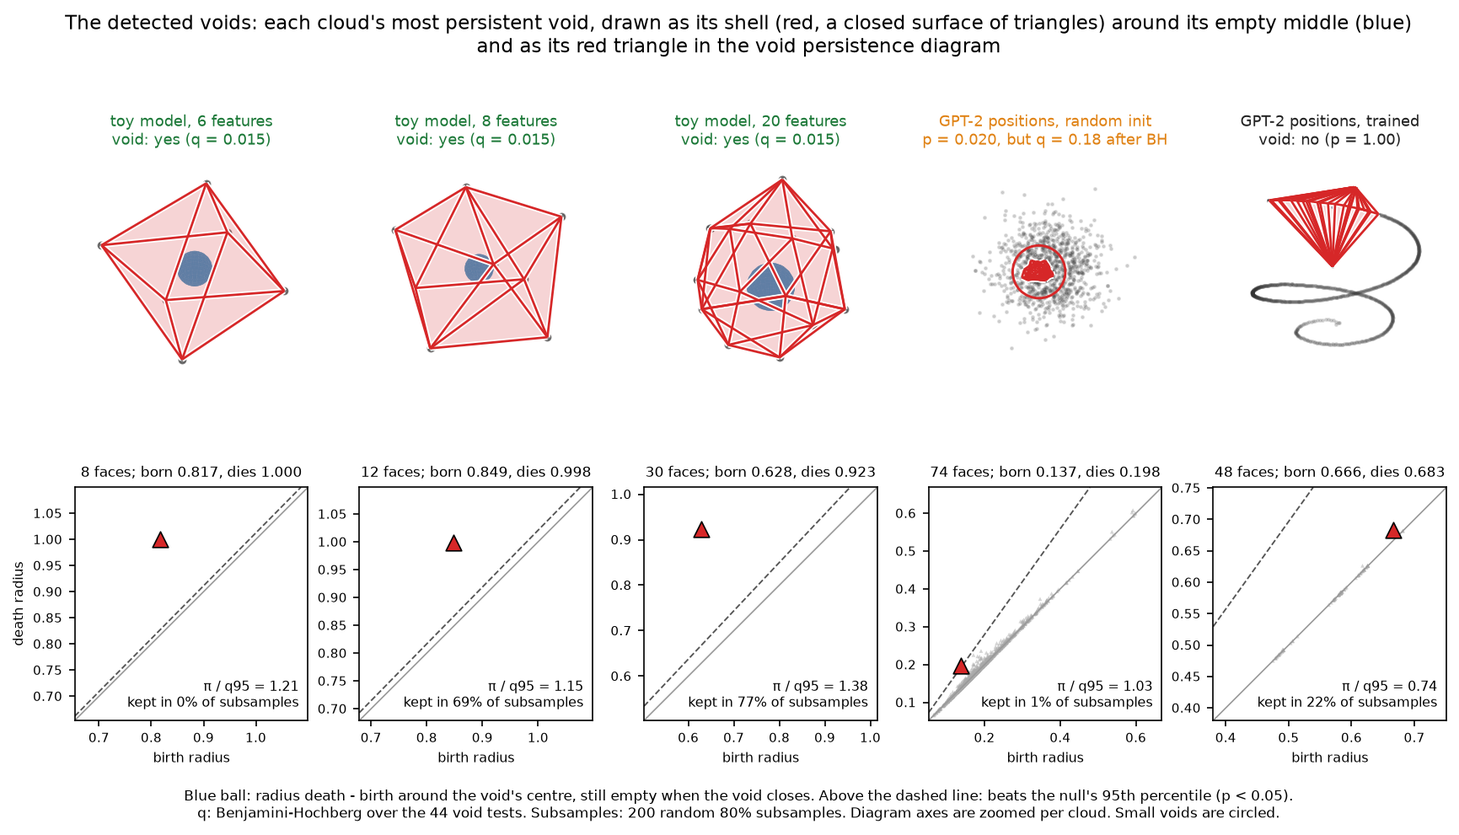
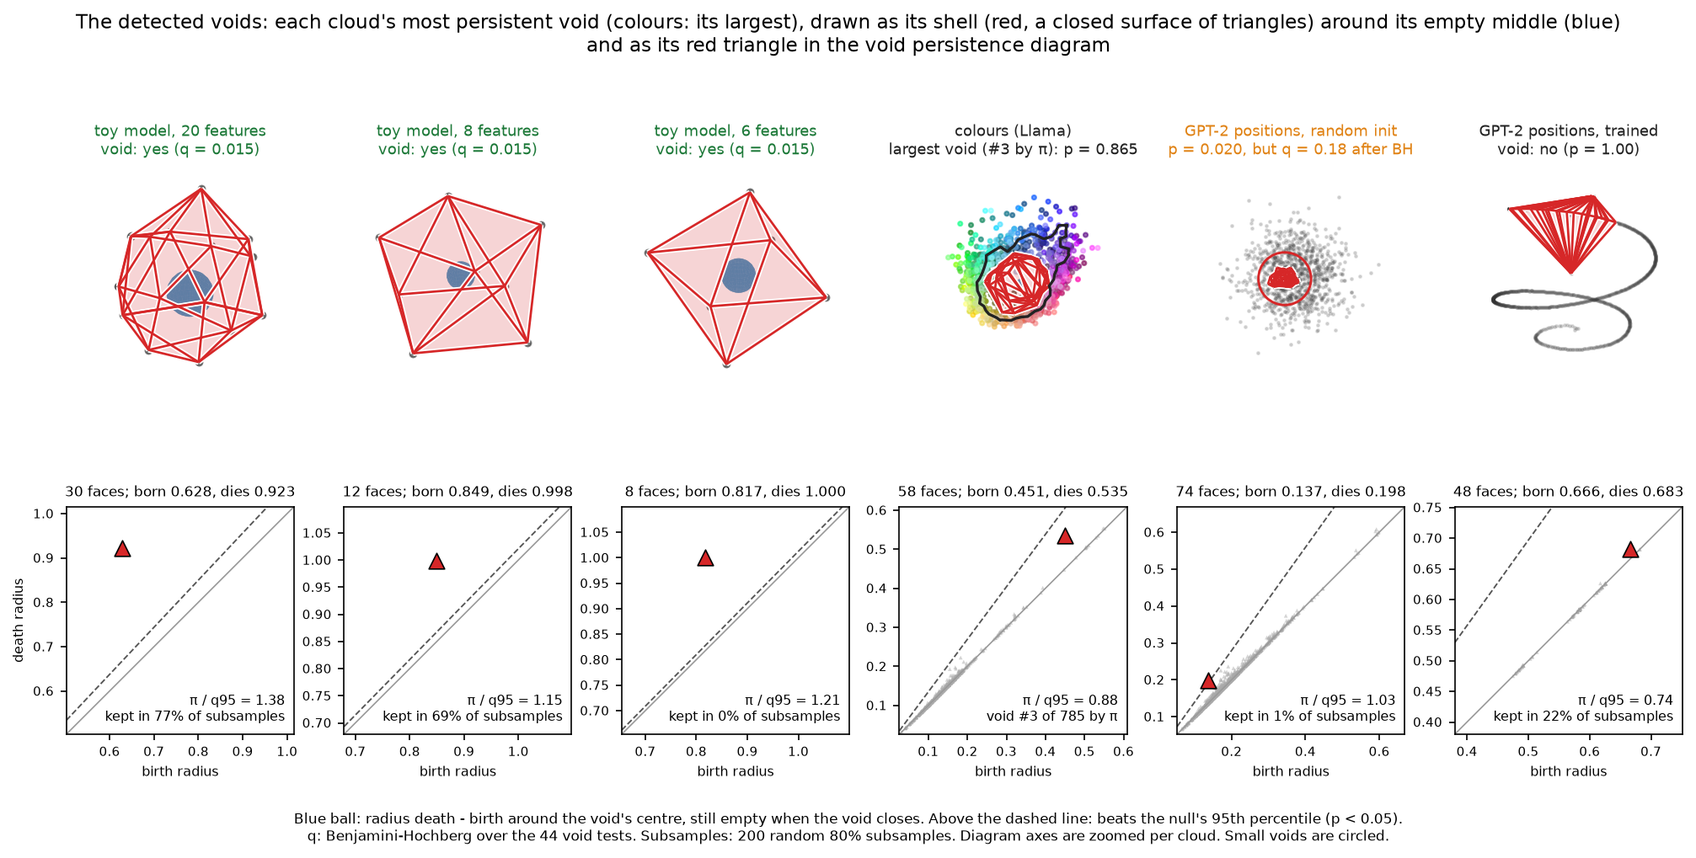
README void figure: toy model with 20 features first (the strongest void of the 44 clouds) and the colours cloud's largest void (#3 by pi, found in the explorer, post hoc): points painted in their prompts' RGB, hue ring face-on around the void, p = 0.865 against the cloud's null; examples.largest_vo

diff --git a/src/neurotopo/report/figures.py b/src/neurotopo/report/figures.py
@@ -701,15 +701,20 @@ def fig_detected_loops() -> None:
 
 
 # The README's void figure: the three clouds whose top void survives Benjamini-Hochberg (toy models of superposition,
-# Elhage et al. 2022, https://transformer-circuits.pub/2022/toy_model/index.html) and two GPT-2 position controls.
-VOID_EXAMPLES = [("R3_tms_n6", "toy model, 6 features"), ("R3_tms_n8", "toy model, 8 features"),
-                 ("R3_tms_n20", "toy model, 20 features"), ("C3_gpt2_wpos_init", "GPT-2 positions, random init"),
-                 ("R1_gpt2_wpos", "GPT-2 positions, trained")]
+# Elhage et al. 2022, https://transformer-circuits.pub/2022/toy_model/index.html; the strongest first), the colours
+# cloud's largest void (found by browsing the explorer: the largest empty middle outside the toy models) and two GPT-2
+# position controls. pick: "top" = the most persistent void, "largest" = examples.largest_void.
+VOID_EXAMPLES = [("R3_tms_n20", "toy model, 20 features", "top"), ("R3_tms_n8", "toy model, 8 features", "top"),
+                 ("R3_tms_n6", "toy model, 6 features", "top"), ("R7_llama_colors", "colours (Llama)", "largest"),
+                 ("C3_gpt2_wpos_init", "GPT-2 positions, random init", "top"),
+                 ("R1_gpt2_wpos", "GPT-2 positions, trained", "top")]
 
 
 def fig_detected_voids() -> None:
     """The detected voids (README, right after the detected circular loops, in the same style). For each cloud of
-    VOID_EXAMPLES, top: the cloud in its top-3 PCA coordinates with its most persistent void drawn explicitly: the shell
+    VOID_EXAMPLES, top: the cloud in its top-3 PCA coordinates (the colours cloud painted in its prompts' own colours,
+    with its most persistent loop, the hue ring, as a dark line, seen face-on, and its farthest 2% of points left out so
+    the ring fills the panel; its title gives that void's own p, without BH) with one void drawn explicitly (pick): the shell
     (diagrams.alpha_h2_voids, via examples.replay), a closed surface of triangles, as red edges with a white halo over
     faint red faces, and inside it the void's empty middle as a blue ball: centred on the circumcentre of the
     tetrahedron that fills the void, radius death - birth, the part of the void the balls of the birth radius do not
@@ -723,34 +728,50 @@ def fig_detected_voids() -> None:
     from itertools import combinations
     from mpl_toolkits.mplot3d.art3d import Line3DCollection, Poly3DCollection
     from neurotopo.experiments import realdata
-    from neurotopo.report.examples import replay
+    from neurotopo.report.examples import largest_void, replay, stimulus_rgb
     inv = pd.read_csv(config.path("results") / "exp2" / "invariants.csv").set_index("id")
-    red, blue = "#d62728", "#4393c3"                                     # red as the detected loops; blue = empty space
+    red, blue = "#d62728", "#4393c3"                                    # red as the detected loops; blue = empty space
     u, v = np.meshgrid(np.linspace(0, 2 * np.pi, 28), np.linspace(0, np.pi, 14))
     ball = np.stack([np.cos(u) * np.sin(v), np.sin(u) * np.sin(v), np.cos(v)])   # unit sphere, (3, 14, 28)
-    fig = plt.figure(figsize=(14, 6.6))
+    fig = plt.figure(figsize=(16.5, 6.8))
     gs = fig.add_gridspec(2, len(VOID_EXAMPLES), height_ratios=[1.35, 1], hspace=0.2, wspace=0.22, top=0.86, bottom=0.13)
-    for j, (d, label) in enumerate(VOID_EXAMPLES):
-        y, row = realdata.cloud(d)["y"], inv.loc[d]
-        rp = replay(y)                                                   # voids sorted by pi: index 0 is the top void
-        h2, shell, centre = rp["h2"], rp["shells"][0], rp["void_centres"][0]
-        p, q = float(row["p_top_void"]), float(row["q_top_void"])
-        verdict, colour = ((f"void: yes (q = {q:.3f})", "#1b7837") if q < 0.05 else
-                           (f"p = {p:.3f}, but q = {q:.2f} after BH", "#e08214") if p < 0.05 else
-                           (f"void: no (p = {p:.2f})", "#222222"))
-        dense, corners = len(y) > 300, y[np.unique(shell)]
+    for j, (d, label, pick) in enumerate(VOID_EXAMPLES):
+        c, row = realdata.cloud(d), inv.loc[d]
+        y = c["y"]
+        if pick == "largest":                                            # a chosen void: its own p, no BH (not a test)
+            lv = largest_void(d)
+            rp, k = lv["rp"], lv["k"]
+            verdict = f"largest void (#{lv['rank']} by π): p = {lv['p']:.3f}"
+            colour = "#e08214" if lv["p"] < 0.05 else "#222222"
+        else:                                                            # voids sorted by pi: index 0 is the top void
+            rp, k = replay(y), 0
+            p, q = float(row["p_top_void"]), float(row["q_top_void"])
+            verdict, colour = ((f"void: yes (q = {q:.3f})", "#1b7837") if q < 0.05 else
+                               (f"p = {p:.3f}, but q = {q:.2f} after BH", "#e08214") if p < 0.05 else
+                               (f"void: no (p = {p:.2f})", "#222222"))
+        h2, shell, centre = rp["h2"], rp["shells"][k], rp["void_centres"][k]
+        rgb, dense, corners = stimulus_rgb(d, c["labels"]), len(y) > 300, y[np.unique(shell)]
         edges = np.array(sorted({tuple(sorted(e)) for t in shell.tolist() for e in combinations(t, 2)}))
+        r = np.linalg.norm(y, axis=1)                                    # largest radius: no corner is clipped; for the
+        lim = float(np.percentile(r, 98) if pick == "largest" else r.max())   # colours ring, the farthest 2% are left out
+        keep = r <= lim
         a3 = fig.add_subplot(gs[0, j], projection="3d")
         a3.computed_zorder = False                                       # draw in call order: points, ball, shell
-        a3.scatter(*y.T, color="#333333", s=2 if dense else 14, alpha=0.15 if dense else 0.6, depthshade=False, zorder=1)
-        a3.plot_surface(*(centre[:, None, None] + (h2[0, 1] - h2[0, 0]) * ball), color=blue, alpha=0.9, shade=False,
+        a3.scatter(*y[keep].T, color=rgb[keep] if rgb is not None else "#333333", s=6 if rgb is not None else 2 if dense
+                   else 14, alpha=0.6 if rgb is not None else 0.15 if dense else 0.6, depthshade=False, zorder=1)
+        a3.plot_surface(*(centre[:, None, None] + (h2[k, 1] - h2[k, 0]) * ball), color=blue, alpha=0.9, shade=False,
                         linewidth=0, zorder=2)                           # the empty middle, radius death - birth
         a3.add_collection3d(Poly3DCollection(y[shell], facecolors=red, edgecolors="none", alpha=0.1, zorder=3))
         a3.add_collection3d(Line3DCollection(y[edges], colors="white", linewidths=3.0, zorder=4))   # halo
         a3.add_collection3d(Line3DCollection(y[edges], colors=red, linewidths=1.3, zorder=5))
+        if pick == "largest":                                            # the most persistent loop (hue ring) around it,
+            ring = y[np.r_[rp["cycles"][0], rp["cycles"][0][:1]]]        # seen face-on as in fig_detected_loops
+            a3.plot(*ring.T, color="#222222", lw=1.6, zorder=6)
+            normal = np.linalg.svd(ring - ring.mean(0))[2][-1]
+            a3.view_init(elev=float(np.degrees(np.arcsin(np.clip(normal[2], -1, 1)))),
+                         azim=float(np.degrees(np.arctan2(normal[1], normal[0]))))
         if np.ptp(corners, axis=0).max() < 0.25 * np.ptp(y, axis=0).max():   # small void: circle it
-            a3.scatter(*corners.mean(0), s=900, facecolors="none", edgecolors=red, linewidths=1.4, zorder=6)
-        lim = float(np.linalg.norm(y, axis=1).max())                    # largest radius: no corner is clipped
+            a3.scatter(*corners.mean(0), s=900, facecolors="none", edgecolors=red, linewidths=1.4, zorder=7)
         a3.set_xlim(-lim, lim)
         a3.set_ylim(-lim, lim)
         a3.set_zlim(-lim, lim)
@@ -763,9 +784,10 @@ def fig_detected_voids() -> None:
         ap.plot([lo, hi], [lo, hi], color="#999", lw=0.8)
         ap.plot([lo, hi / q95], [lo * q95, hi], color="#555", ls="--", lw=0.9)
         ap.scatter(h2[:, 0], h2[:, 1], s=5, marker="^", color="#aaaaaa", alpha=0.5, edgecolors="none")
-        ap.scatter([h2[0, 0]], [h2[0, 1]], s=80, marker="^", color=red, edgecolors="k", linewidths=0.8, zorder=4)
+        ap.scatter([h2[k, 0]], [h2[k, 1]], s=80, marker="^", color=red, edgecolors="k", linewidths=0.8, zorder=4)
         kept = int(np.floor(100 * row["void_freq"] + 0.5))             # half-up, as numbers.py rounds the README's %
-        ap.text(0.96, 0.04, f"π / q95 = {row['top_pi2'] / q95:.2f}\nkept in {kept}% of subsamples",
+        note = f"void #{k + 1} of {len(h2)} by π" if pick == "largest" else f"kept in {kept}% of subsamples"
+        ap.text(0.96, 0.04, f"π / q95 = {h2[k, 1] / h2[k, 0] / q95:.2f}\n{note}",
                 transform=ap.transAxes, fontsize=7.5, va="bottom", ha="right")   # below the diagonal: always empty
         ap.set_xlim(lo, hi)
         ap.set_ylim(lo, hi)
@@ -774,8 +796,9 @@ def fig_detected_voids() -> None:
         ap.set_xlabel("birth radius", fontsize=7.5)
         if j == 0:
             ap.set_ylabel("death radius", fontsize=7.5)
-        ap.set_title(f"{len(shell)} faces; born {h2[0, 0]:.3f}, dies {h2[0, 1]:.3f}", fontsize=8)
-    fig.suptitle("The detected voids: each cloud's most persistent void, drawn as its shell (red, a closed surface of "
+        ap.set_title(f"{len(shell)} faces; born {h2[k, 0]:.3f}, dies {h2[k, 1]:.3f}", fontsize=8)
+    fig.suptitle("The detected voids: each cloud's most persistent void (colours: its largest), drawn as its shell (red, "
+                 "a closed surface of "
                  "triangles) around its empty middle (blue)\nand as its red triangle in the void persistence diagram",
                  fontsize=11)
     fig.text(0.5, 0.015, "Blue ball: radius death - birth around the void's centre, still empty when the void closes. "

diff --git a/src/neurotopo/report/examples.py b/src/neurotopo/report/examples.py
@@ -150,3 +150,39 @@ def example(d: str) -> dict:
             "connect_r": float(loc["connect_radius"]) if loc else None,
             "within": bool(loc["within_concept_loop"]) if loc else None, "traversal": traversal(d)}
 
+
+@lru_cache(maxsize=None)
+def largest_void(d: str) -> dict:
+    """Cloud d's void with the largest empty middle (largest death - birth, the blue ball of figures.fig_detected_voids),
+    chosen for the README after browsing the explorer (post hoc). Also its rank by pi, the radius at which the most
+    persistent loop is filled in, that loop's winding number around the void's centre, measured in the loop's best-fit
+    plane (SVD of its representative cycle), and the void's Monte Carlo p-value against the cloud's design-matched
+    null of the largest void pi (realdata.null, as Exp2 tests the top void), and how many of the cloud's concepts
+    (source.concepts; 36 hues for colours) have a point among the shell's corners. The dict holds the replay data
+    `rp`; treat it as read-only."""
+    c = realdata.cloud(d)
+    y, con = c["y"], source.concepts(d, c["labels"])
+    rp = replay(y)
+    h2, k = rp["h2"], int(np.argmax(rp["h2"][:, 1] - rp["h2"][:, 0]))
+    null = realdata.null(d, config.load()["seed"])[:, 1]               # max void pi in each null cloud
+    ring = y[np.r_[rp["cycles"][0], rp["cycles"][0][:1]]]              # most persistent loop, closed
+    m = ring.mean(0)
+    plane = np.linalg.svd(ring - m)[2][:2]                              # its best-fit plane's two axes
+    p, c = (ring - m) @ plane.T, (rp["void_centres"][k] - m) @ plane.T
+    turn = np.unwrap(np.arctan2(p[:, 1] - c[1], p[:, 0] - c[0]))        # angle of the loop seen from the void's centre
+    return {"rp": rp, "k": k, "rank": k + 1, "n": len(h2), "birth": float(h2[k, 0]), "death": float(h2[k, 1]),
+            "pi": float(h2[k, 1] / h2[k, 0]), "loop_death": float(rp["h1"][0, 1]),
+            "p": float((1 + np.sum(null >= h2[k, 1] / h2[k, 0])) / (len(null) + 1)),   # (1 + #null >= obs) / (M + 1)
+            "shell_concepts": len(np.unique(con.index[np.unique(rp["shells"][k])])), "n_concepts": len(con.names),
+            "winding": int(round((turn[-1] - turn[0]) / (2 * np.pi)))}
+
+
+def stimulus_rgb(d: str, labels: list[str]) -> np.ndarray | None:
+    """(N, 3) RGB in [0, 1] of each colour prompt (labels "hue|sat|lum", as exp7_audit.colour_stimuli builds them
+    from the source's prompt builder), so the colours cloud can be painted in its own colours; None for other sets."""
+    if d != "R7_llama_colors":
+        return None
+    from neurotopo.experiments.exp7_audit import colour_stimuli
+    rgb, lab = colour_stimuli()
+    return rgb[[lab.index(s) for s in labels]] / 255.0
+

diff --git a/tests/test_examples.py b/tests/test_examples.py
@@ -60,6 +60,19 @@ def test_example_weekdays_is_consistent():
     assert t["source"].startswith("post hoc") and t["names"][0] == "Monday" and len(t["theta"]) == 7
 
 
+def test_colours_largest_void_and_stimulus_colours():
+    # The README's colours void is the one with the largest empty middle; the hue ring winds around it once; the
+    # points are painted in their prompts' RGB (36 hues x 5 saturations x 5 lightnesses = 900 prompts).
+    from neurotopo.experiments import realdata
+    lv = examples.largest_void("R7_llama_colors")
+    h2 = lv["rp"]["h2"]
+    assert lv["k"] == int(np.argmax(h2[:, 1] - h2[:, 0])) and abs(lv["winding"]) == 1
+    assert 0 < lv["p"] <= 1 and 0 < lv["shell_concepts"] <= lv["n_concepts"] == 36
+    rgb = examples.stimulus_rgb("R7_llama_colors", realdata.cloud("R7_llama_colors")["labels"])
+    assert rgb.shape == (900, 3) and rgb.min() >= 0 and rgb.max() <= 1
+    assert examples.stimulus_rgb("R6_llama_years", []) is None
+
+
 def test_days_time_traversal_uses_the_day_variable():
     # The concept variable of days + times of day is the day ("day of week"), not the time of day.
     t = examples.traversal("R5c_llama_days_time")

diff --git a/src/neurotopo/report/numbers.py b/src/neurotopo/report/numbers.py
@@ -186,6 +186,11 @@ def collect() -> dict:
             n["exp2.n_void_q05"] = int((d["q_top_void"] < 0.05).sum())       # voids surviving BH over the 44 tests
         trained = d[d.index.str.startswith("R") & ~d.index.str.startswith("R3_")]   # trained models, not the toy models
         n["exp2.trained_n"], n["exp2.trained_voids"] = len(trained), int((trained["p_top_void"] < 0.05).sum())
+        # The colours cloud's largest void (README void figure; post hoc, chosen after browsing the explorer).
+        from neurotopo.report.examples import largest_void                   # lazy: examples imports report modules
+        lv = largest_void("R7_llama_colors")
+        for key in ("rank", "n", "birth", "death", "pi", "p", "loop_death", "winding", "shell_concepts", "n_concepts"):
+            n[f"voids.colors.{key}"] = lv[key]
         c1 = d[d.index.str.startswith("C1_")]
         n["exp2.c1_loops"] = int((c1["p_top_loop"] < 0.05).sum())
         n["exp2.c1_pi_max"] = float(c1["top_pi1"].max())

diff --git a/README.template.md b/README.template.md
@@ -22,17 +22,21 @@ A loop alone does not prove a hole. The loop test also flags many hole-free shap
 - **Weekdays and days with times:** the most persistent loop is a small loop inside one cluster (circled). It dies below the dotted line, before two days' clusters touch.
 - **Years:** a small loop that does not beat the null (below the dashed line).
 
-![The detected voids: each cloud's most persistent void drawn as a red shell around its empty middle (a blue ball), and its triangle in the void persistence diagram](docs/figures/fig_detected_voids.png)
+![The detected voids: three toy-model voids, the colours cloud's largest void inside its hue ring, and two GPT-2 controls, each drawn as a red shell around its empty middle, with its triangle in the void persistence diagram](docs/figures/fig_detected_voids.png)
 
 *The detected voids*, drawn the same way. A void is an empty region walled in by a closed surface, like the inside of a hollow ball. It is the next kind of hole after a loop (an H2 bar instead of an H1 bar).
-- **Top:** the red edges are the shell of each cloud's most persistent void: one closed surface of triangles that carries it ([representative void](docs/glossary.md#representative-void)).
+- **Top:** the red edges are the shell of a void: one closed surface of triangles that carries it ([representative void](docs/glossary.md#representative-void)). Each cloud shows its most persistent void, except colours, which shows its largest.
   - The blue ball is the void's empty middle. No point is closer to its centre than the void's death radius, so when the void closes (at its birth radius) a ball of radius death − birth there is still not covered.
 - **Bottom:** the same void as a red triangle in the void persistence diagram (axes zoomed per cloud).
 - **Toy models of superposition** ([Elhage et al. 2022](https://transformer-circuits.pub/2022/toy_model/index.html)), green: each point is one feature's direction in a 3-dimensional hidden layer.
-  - They are the only {{exp2.n_void_q05}} of the 44 clouds whose most persistent void survives Benjamini–Hochberg (q = {{exp2.tmsn6.q_void:3}}). The features sit on or near the corners of a polytope, which walls in a void.
-  - With 6 features the shell is the 8 faces of an octahedron. Its persistence ratio π = {{exp2.tmsn6.top_pi2:3}} is close to that of a regular octahedron, √(3/2) ≈ 1.225.
-  - The voids of 8 and 20 features come back in {{exp2.tmsn8.void_freq_pct}}% and {{exp2.tmsn20.void_freq_pct}}% of random 80% subsamples. With 6 features a subsample keeps only 5 of the 6 corners, and the void came back in {{exp2.tmsn6.void_freq_pct}}% of them.
+  - They are the only {{exp2.n_void_q05}} of the 44 clouds whose most persistent void survives Benjamini–Hochberg (q = {{exp2.tmsn6.q_void:3}}). Here the void matches both the cloud's shape and its meaning: the features sit on or near the corners of a polytope, so the shell spans the whole cloud and the empty middle is the space the features keep clear.
+  - The void of 20 features is the strongest of all 44 clouds: π = {{exp2.tmsn20.top_pi2:2}} against the null's 95th percentile of {{exp2.tmsn20.null_q95_pi2:2}}, and it comes back in {{exp2.tmsn20.void_freq_pct}}% of random 80% subsamples ({{exp2.tmsn8.void_freq_pct}}% with 8 features).
+  - With 6 features the shell is the 8 faces of an octahedron. Its persistence ratio π = {{exp2.tmsn6.top_pi2:3}} is close to that of a regular octahedron, √(3/2) ≈ 1.225. A subsample keeps only 5 of the 6 corners, and the void came back in {{exp2.tmsn6.void_freq_pct}}% of them.
   - These clouds have only 6–20 points and were [preregistered](reports/preregistration.md) as exploratory, descriptive sets.
+- **Colours** (chosen after browsing the [explorer](https://burnycoder.github.io/topology-of-neural-geometry-in-llm-mechanistic-interpretability/), so post hoc), black: each point is painted in its prompt's own colour, and the dark line is the hue ring (the cloud's most persistent loop), seen face-on.
+  - The panel shows the void with the largest empty middle (#{{voids.colors.rank}} of {{voids.colors.n}} by π). Its shell's corners cover {{voids.colors.shell_concepts}} of the {{voids.colors.n_concepts}} hues, and the hue ring winds around its centre once.
+  - It closes at radius {{voids.colors.birth:3}}, right after the hue ring is filled in ({{voids.colors.loop_death:3}}), and fills at {{voids.colors.death:3}}. This suggests the ring's middle is not a flat disc: filling it in walls off a pocket.
+  - It is not significant: π = {{voids.colors.pi:2}}, below the null's 95th percentile ({{exp2.colors.null_q95_pi2:2}}; p = {{voids.colors.p}}). Random Gaussian clouds of the same design usually have a more persistent void. The farthest 2% of the points are left out of the panel so the ring fills it.
 - **GPT-2 positions at random init**, orange: a small void (circled) with p = {{exp2.wposinit.p_top_void}}, but q = {{exp2.wposinit.q_void:2}} after the correction, and it comes back in only {{exp2.wposinit.void_freq_pct}}% of subsamples. We read it as a chance hit among 44 tests.
 - **Trained GPT-2 positions**, black: the shape fitter calls this cloud a closed sphere, which has a void, but the data has none. Its most persistent void is a thin one (π = {{exp2.wpos.top_pi2:2}}, below the null's 95th percentile of {{exp2.wpos.null_q95_pi2:2}}). The positions trace a spiral curve, not a surface.
 - **None of the other {{exp2.trained_n}} trained-model clouds** (the language-model concepts and the grokking network) has a significant void, even before correction ({{exp2.trained_voids}} at p < 0.05).

diff --git a/README.md b/README.md
@@ -22,17 +22,21 @@ A loop alone does not prove a hole. The loop test also flags many hole-free shap
 - **Weekdays and days with times:** the most persistent loop is a small loop inside one cluster (circled). It dies below the dotted line, before two days' clusters touch.
 - **Years:** a small loop that does not beat the null (below the dashed line).
 
-![The detected voids: each cloud's most persistent void drawn as a red shell around its empty middle (a blue ball), and its triangle in the void persistence diagram](docs/figures/fig_detected_voids.png)
+![The detected voids: three toy-model voids, the colours cloud's largest void inside its hue ring, and two GPT-2 controls, each drawn as a red shell around its empty middle, with its triangle in the void persistence diagram](docs/figures/fig_detected_voids.png)
 
 *The detected voids*, drawn the same way. A void is an empty region walled in by a closed surface, like the inside of a hollow ball. It is the next kind of hole after a loop (an H2 bar instead of an H1 bar).
-- **Top:** the red edges are the shell of each cloud's most persistent void: one closed surface of triangles that carries it ([representative void](docs/glossary.md#representative-void)).
+- **Top:** the red edges are the shell of a void: one closed surface of triangles that carries it ([representative void](docs/glossary.md#representative-void)). Each cloud shows its most persistent void, except colours, which shows its largest.
   - The blue ball is the void's empty middle. No point is closer to its centre than the void's death radius, so when the void closes (at its birth radius) a ball of radius death − birth there is still not covered.
 - **Bottom:** the same void as a red triangle in the void persistence diagram (axes zoomed per cloud).
 - **Toy models of superposition** ([Elhage et al. 2022](https://transformer-circuits.pub/2022/toy_model/index.html)), green: each point is one feature's direction in a 3-dimensional hidden layer.
-  - They are the only 3 of the 44 clouds whose most persistent void survives Benjamini–Hochberg (q = 0.015). The features sit on or near the corners of a polytope, which walls in a void.
-  - With 6 features the shell is the 8 faces of an octahedron. Its persistence ratio π = 1.224 is close to that of a regular octahedron, √(3/2) ≈ 1.225.
-  - The voids of 8 and 20 features come back in 69% and 77% of random 80% subsamples. With 6 features a subsample keeps only 5 of the 6 corners, and the void came back in 0% of them.
+  - They are the only 3 of the 44 clouds whose most persistent void survives Benjamini–Hochberg (q = 0.015). Here the void matches both the cloud's shape and its meaning: the features sit on or near the corners of a polytope, so the shell spans the whole cloud and the empty middle is the space the features keep clear.
+  - The void of 20 features is the strongest of all 44 clouds: π = 1.47 against the null's 95th percentile of 1.06, and it comes back in 77% of random 80% subsamples (69% with 8 features).
+  - With 6 features the shell is the 8 faces of an octahedron. Its persistence ratio π = 1.224 is close to that of a regular octahedron, √(3/2) ≈ 1.225. A subsample keeps only 5 of the 6 corners, and the void came back in 0% of them.
   - These clouds have only 6–20 points and were [preregistered](reports/preregistration.md) as exploratory, descriptive sets.
+- **Colours** (chosen after browsing the [explorer](https://burnycoder.github.io/topology-of-neural-geometry-in-llm-mechanistic-interpretability/), so post hoc), black: each point is painted in its prompt's own colour, and the dark line is the hue ring (the cloud's most persistent loop), seen face-on.
+  - The panel shows the void with the largest empty middle (#3 of 785 by π). Its shell's corners cover 21 of the 36 hues, and the hue ring winds around its centre once.
+  - It closes at radius 0.451, right after the hue ring is filled in (0.438), and fills at 0.535. This suggests the ring's middle is not a flat disc: filling it in walls off a pocket.
+  - It is not significant: π = 1.19, below the null's 95th percentile (1.35; p = 0.865). Random Gaussian clouds of the same design usually have a more persistent void. The farthest 2% of the points are left out of the panel so the ring fills it.
 - **GPT-2 positions at random init**, orange: a small void (circled) with p = 0.020, but q = 0.18 after the correction, and it comes back in only 1% of subsamples. We read it as a chance hit among 44 tests.
 - **Trained GPT-2 positions**, black: the shape fitter calls this cloud a closed sphere, which has a void, but the data has none. Its most persistent void is a thin one (π = 1.02, below the null's 95th percentile of 1.39). The positions trace a spiral curve, not a surface.
 - **None of the other 14 trained-model clouds** (the language-model concepts and the grokking network) has a significant void, even before correction (0 at p < 0.05).
